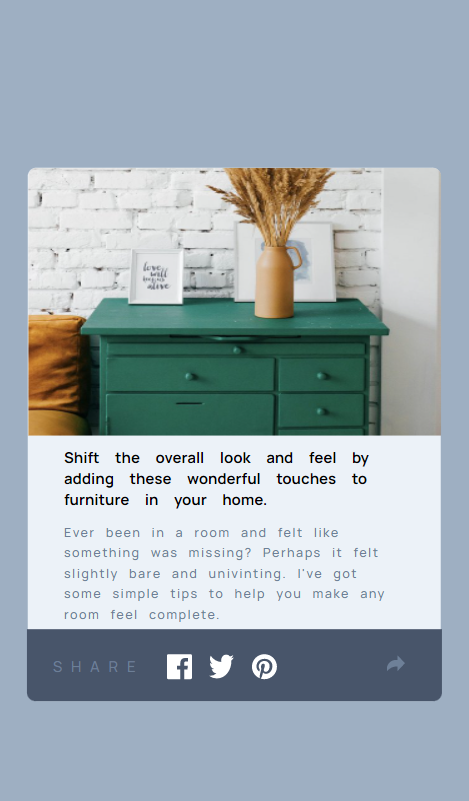
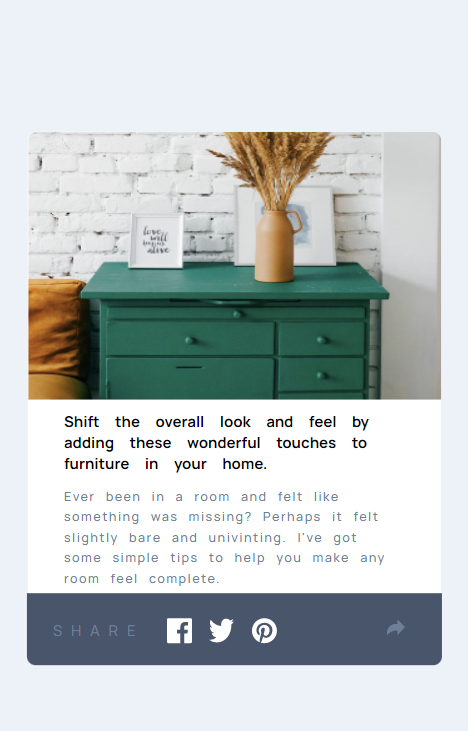
Updated Style.css

diff --git a/style.css b/style.css
@@ -23,7 +23,7 @@ body{
     min-height: 100vh;
     margin: 0 auto;
     display: flex;
-    background-color: var(--text-grayish-blue);
+    background-color: var(--text-light-grayish-blue);
     justify-content: center;
     align-items: center;
 
@@ -34,7 +34,8 @@ body{
     width: 45.625rem;
     display: flex;
     border-radius: .4375rem;
-    background-color: var(--text-light-grayish-blue);
+    background-color: var(--text-white);
+    box-shadow: 1px 1px 12px 1px var(--text-desaturated-dark-blue);
 }
 
 .img-container  img {
@@ -100,7 +101,7 @@ body{
 
 a{
     z-index: 0;
-    background-color: var(--text-grayish-blue);
+    background-color: var(--text-light-grayish-blue);
     width: 2rem;
     height: 2rem;
     border-radius: 50%;
@@ -114,7 +115,7 @@ a{
 
 /* This is here to make sure the button is working */
 a:hover{
-    background-color: var(--text-very-dark-grayish-blue);
+    background-color: var(--text-light-grayish-blue);
 }
 
 #img{
@@ -265,15 +266,21 @@ a:hover{
 }
 
 @media screen and (max-width: 23.5rem){
+    .parent-container{
+        box-shadow: 0px 0px 0px;
+    }
+
+
     .overlay{
         width: 20.6875rem;
         height: 3.75rem;
-        background-color: var(--text-light-grayish-blue);
+        background-color: var(--text-white);
         position: absolute;
         z-index: -1;
         border-radius: .4375rem;
         left: 8.175rem;
     }
+
 
     .pop-up{
         height: 3.5625rem;
